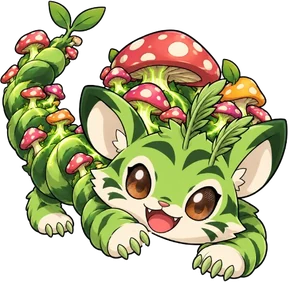
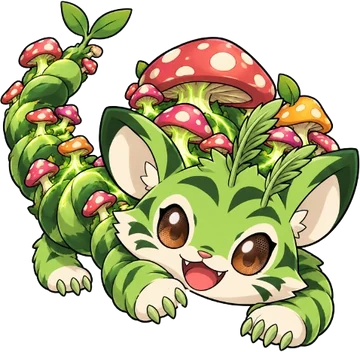
Low-memory optimizations and new Tigre d'Água sprite
- Camera photos are decoded straight to at most 1440px (shrinkPhoto); the
  sheet preview and the AI check use that copy, never the 12 MP original
  (~48 MB decoded -> ~6 MB).
- Pet pictures in Perfil use srcset with 360px thumbnails (sprites.py now
  makes them at 360px), so dense screens still get the full 900px art.
- 3D egg scene frees its GPU memory on hatch (forceContextLoss); the
  drifting floor layer only extends on the sides it slides in from; pet
  art decodes async with high fetch priority; drop the Tigrin preload.
- Tigre d'Água gets its new sprite (default base-form size, new
  description, docs updated).

diff --git a/src/js/vision.js b/src/js/vision.js
@@ -9,16 +9,41 @@ const MAX_SIDE = 768;
 // A server that is down fails at once; this only caps a slow AI.
 const TIMEOUT_MS = 10_000;
 
-/** Draws the image into a canvas no larger than MAX_SIDE, as base64 JPEG. */
-async function shrink(file) {
-  const bitmap = await createImageBitmap(file);
-  const scale = Math.min(1, MAX_SIDE / Math.max(bitmap.width, bitmap.height));
+/**
+ * Decodes an image straight to a small size. A 12 MP phone photo is about
+ * 48 MB once decoded; asking the decoder for `maxSide` pixels across keeps
+ * a cheap phone from ever holding that. Where the browser ignores the
+ * resize hint it decodes full size once, and the canvas scales it down.
+ */
+async function scaledCanvas(file, maxSide) {
+  let bitmap;
+  try {
+    bitmap = await createImageBitmap(file, { resizeWidth: maxSide, resizeQuality: 'high' });
+  } catch {
+    bitmap = await createImageBitmap(file);
+  }
+  const scale = Math.min(1, maxSide / Math.max(bitmap.width, bitmap.height));
   const canvas = document.createElement('canvas');
   canvas.width = Math.round(bitmap.width * scale);
   canvas.height = Math.round(bitmap.height * scale);
   canvas.getContext('2d').drawImage(bitmap, 0, 0, canvas.width, canvas.height);
   bitmap.close?.();
-  const url = canvas.toDataURL('image/jpeg', 0.8);
+  return canvas;
+}
+
+/**
+ * A photo resized for the screen: at most `maxSide` pixels on its long
+ * side, as a JPEG. The sheet shows this, never the camera's full file.
+ */
+export async function shrinkPhoto(file, maxSide = 1440) {
+  const canvas = await scaledCanvas(file, maxSide);
+  return new Promise((resolve, reject) => canvas.toBlob(
+    (blob) => (blob ? resolve(blob) : reject(new Error('encode failed'))), 'image/jpeg', 0.9));
+}
+
+/** The image no larger than MAX_SIDE, as base64 JPEG, for the AI. */
+async function shrink(file) {
+  const url = (await scaledCanvas(file, MAX_SIDE)).toDataURL('image/jpeg', 0.8);
   return url.slice(url.indexOf(',') + 1);
 }
 

diff --git a/src/js/ui/sheet.js b/src/js/ui/sheet.js
@@ -1,6 +1,6 @@
 import { ACTIONS } from '../config.js';
 import { logAction, remainingToday } from '../state.js';
-import { checkPhoto } from '../vision.js';
+import { checkPhoto, shrinkPhoto } from '../vision.js';
 import { h, num, plural, onLeave } from './dom.js';
 import { motionAvailable, startPedometer } from '../pedometer.js';
 
@@ -169,10 +169,15 @@ export function openSheet(host, type, onLogged) {
     counterNote.hidden = false;
   }
 
-  function onPick(event) {
-    const picked = event.target.files?.[0];
+  async function onPick(event) {
+    const original = event.target.files?.[0];
     event.target.value = '';   // the same file can be picked again
-    if (!picked) return;
+    if (!original) return;
+    // Work from a screen-sized copy: the camera's own file can take ~48 MB
+    // of memory once decoded, the copy a few. If it cannot be made, use
+    // the original as before.
+    const picked = await shrinkPhoto(original).catch(() => original);
+    if (closed) return;
     if (photo) URL.revokeObjectURL(photo.url);
     photo = { file: picked, url: URL.createObjectURL(picked) };
     preview.src = photo.url;

diff --git a/src/js/ui/info.js b/src/js/ui/info.js
@@ -126,6 +126,7 @@ export function renderInfo(screen, close) {
     const known = discovered().has(branch.form.id);
     const peek = h('div', { class: 'evo__peek' },
       h('img', { class: `evo__art${known ? '' : ' silhouette'}`, src: branch.form.art, alt: '',
+        srcset: `${branch.form.thumb} 360w, ${branch.form.art} 900w`, sizes: '32vw',
         loading: 'lazy', decoding: 'async' }),
       !known && h('span', { class: 'evo__mark', 'aria-hidden': 'true', text: '?' }));
 
@@ -207,7 +208,10 @@ export function renderInfo(screen, close) {
 
   return h('div', { class: 'info__body', dataset: { scroll: '' } },
     h('div', { class: 'info__hero' },
-      h('img', { class: 'info__art', src: form.art, alt: '' }),
+      // The small copy where it is sharp enough (the browser picks by the
+      // screen's pixel density), the full art on denser screens.
+      h('img', { class: 'info__art', src: form.art, alt: '', decoding: 'async',
+        srcset: `${form.thumb} 360w, ${form.art} 900w`, sizes: '38vw' }),
       h('div', { class: 'info__namerow' }, nameText, nameInput, editBtn)),
     progressPanel,
     statusPanel,

diff --git a/src/js/forms.js b/src/js/forms.js
@@ -53,7 +53,7 @@ const list = [];
 function form(id, name, type, rarity, extra = {}) {
   const file = SPRITES.includes(id) ? id : FALLBACK;
   const art = `assets/pet/${file}.webp`;
-  const thumb = `assets/pet/thumb/${file}.webp`;   // 288px, for small pictures
+  const thumb = `assets/pet/thumb/${file}.webp`;   // 360px, for small pictures
   const parent = list.find((f) => f.id === extra.from);
   list.push({ id, name, type, rarity, art, thumb, scale: SCALE[rarity], from: null, aura: parent?.aura, ...extra });
 }
@@ -100,7 +100,7 @@ form('magmatigreo', 'Magmatígreo', 'Fogo/Pedra', 'lendario',
 // ---------- Ovo Azul: Água / Gelo ----------
 
 form('tigre-dagua', "Tigre d'Água", 'Água', 'comum',
-  { scale: 78, aura: '#5cc8ff', desc: 'Um Tigrinho brincalhão, com ondas na cauda e gotas flutuando ao redor.' });
+  { aura: '#5cc8ff', desc: 'Um Tigrinho brincalhão de pelo azul-turquesa, com um lenço de cristais de água no pescoço.' });
 
 form('oceaniger', 'Oceaniger', 'Água', 'raro',
   { from: 'tigre-dagua', needs: { happiness: 70 },

diff --git a/src/styles/stage.css b/src/styles/stage.css
@@ -58,7 +58,8 @@ body[data-mode="framed"] #backdrop { opacity: 1; }
 /*
  * The floor pattern: a faint gold diamond lattice drifting diagonally, as
  * if a camera glides over a plane. The layer is one tile bigger than the
- * stage on every side and moves exactly one tile per loop, so the loop is
+ * stage on the two sides it slides in from (top and right: it moves left
+ * and down) and moves exactly one tile per loop, so the loop is
  * seamless. Low contrast on purpose - it should read as depth, never pull
  * the eye. Reduced motion (base.css) leaves it still.
  *
@@ -73,7 +74,8 @@ body[data-mode="framed"] #backdrop { opacity: 1; }
 .stage::before {
   content: "";
   position: absolute;
-  inset: calc(var(--tile) * -1);
+  /* Extra only where the slide needs it: a smaller GPU layer, same look. */
+  inset: calc(var(--tile) * -1) calc(var(--tile) * -1) 0 0;
   z-index: -1;
   pointer-events: none;
   opacity: .12;

diff --git a/src/js/ui/home.js b/src/js/ui/home.js
@@ -35,7 +35,7 @@ export function renderHome(host) {
   const bar = h('div', { class: 'xpbar' }, fill);
   const nextLabel = h('div', { class: 'xpbar__next' });
 
-  const art = h('img', { class: 'pet-art', alt: 'Seu tigrinho' });
+  const art = h('img', { class: 'pet-art', alt: 'Seu tigrinho', decoding: 'async', fetchpriority: 'high' });
   // Ready to evolve: a glow in the line's colour hugs the pet (a blurred
   // white copy of the sprite) and small stars rise around it.
   const aura = h('img', { class: 'pet-aura', alt: '' });

diff --git a/index.html b/index.html
@@ -9,7 +9,6 @@
 <meta name="apple-mobile-web-app-capable" content="yes">
 <meta name="apple-mobile-web-app-status-bar-style" content="black-translucent">
 <title>Pet Tigrinho</title>
-<link rel="preload" as="image" href="assets/pet/tigrin.webp">
 <link rel="preconnect" href="https://fonts.googleapis.com">
 <link rel="preconnect" href="https://fonts.gstatic.com" crossorigin>
 <link rel="stylesheet" href="https://fonts.googleapis.com/css2?family=Nunito:wght@600;700;800;900&display=swap">

diff --git a/src/js/ui/eggs3d.js b/src/js/ui/eggs3d.js
@@ -277,6 +277,8 @@ export function createEggStage(host, eggs, { reduced, onPick }) {
         o.material?.dispose();
       });
       renderer.dispose();
+      // Hand the GPU memory back now, not whenever the browser gets to it.
+      renderer.forceContextLoss();
       renderer.domElement.remove();
     },
   };

diff --git a/tools/sprites.py b/tools/sprites.py
@@ -8,7 +8,7 @@ Turns source art into game sprites and wires them in.
 
 For every form in src/js/forms.js that has `assets/source/<id>.png`:
 crop to the alpha bounds, resize to 900px wide and save
-`assets/pet/<id>.webp`, plus a 288px wide thumbnail at
+`assets/pet/<id>.webp`, plus a 360px wide thumbnail at
 `assets/pet/thumb/<id>.webp` for the small pictures (Enciclopédia, the
 next-evolution peek), so those screens do not download the full art.
 
@@ -41,7 +41,7 @@ CONFIG = ROOT / 'src/js/config.js'
 MANIFEST = ROOT / 'src/js/sprites.js'
 
 WIDTH = 900
-THUMB_WIDTH = 288
+THUMB_WIDTH = 360
 THUMBS = PET / 'thumb'
 ICON_SIZE = 256
 KNOCKOUT_THRESHOLD = 40  # colour distance still counted as background

diff --git a/README.md b/README.md
@@ -410,6 +410,15 @@ What `server.js` serves and how:
   so an unchanged one costs a 304, not its bytes.
 - **Audio:** `.mp3`/`.wav` get their real types and byte ranges, which
   Safari needs to play them.
+- **Cheap phones (low RAM):** camera photos are decoded straight to at
+  most 1440px (`shrinkPhoto` in `src/js/vision.js`) — a 12 MP shot would
+  take ~48 MB decoded, the copy ~6 MB — and the sheet and the AI only see
+  that copy. Small pet pictures use `srcset` with the 360px thumbnails, so
+  the browser takes the full 900px art only on screens dense enough to
+  need it. The 3D egg scene frees its GPU memory as soon as the egg hatches
+  (`forceContextLoss`), and the drifting floor layer only extends past the
+  stage on the two sides it slides in from. The idle home screen animates
+  on the GPU only (no per-frame style or layout work).
 - **`sw.js`** (a service worker) is registered on HTTPS/localhost only so
   reminders can show on Android. It caches nothing on purpose.
 
@@ -430,7 +439,7 @@ python3 tools/sprites.py              # needs Pillow
 ```
 
 It crops each new source to its alpha bounds, resamples it to a 900px wide
-`assets/pet/<id>.webp` plus a 288px `assets/pet/thumb/<id>.webp` (the
+`assets/pet/<id>.webp` plus a 360px `assets/pet/thumb/<id>.webp` (the
 Enciclopédia uses the small one, lazy-loaded), regenerates `src/js/sprites.js` (the list of forms
 that have a sprite, read by `forms.js`) and prints what is still missing.
 

diff --git a/docs/evolucoes.md b/docs/evolucoes.md
@@ -308,9 +308,9 @@ What is new in this evolution:
 ## 3. Ovo Azul — linhas Água e Gelo
 
 ### Tigre d'Água · `tigre-dagua` · Água · Comum 🎨
-O inicial de água: pelagem verde-azulada, ondas na cauda e gotas
-flutuando. Feito antes deste guia, a partir do Tigrin (*"make the fur of
-this latest image green"* → *"slightly pulled towards blue"*).
+O inicial de água: pelagem azul-turquesa com listras escuras e um lenço de
+cristais de água no pescoço. Sprite atual desenhado pelo time (substituiu a
+primeira versão, com ondas na cauda e gotas flutuando).
 
 ### Oceaniger · `oceaniger` · Água · Raro 🎨
 Anexos: `tigrin.png` + `tigre-dagua.png`
